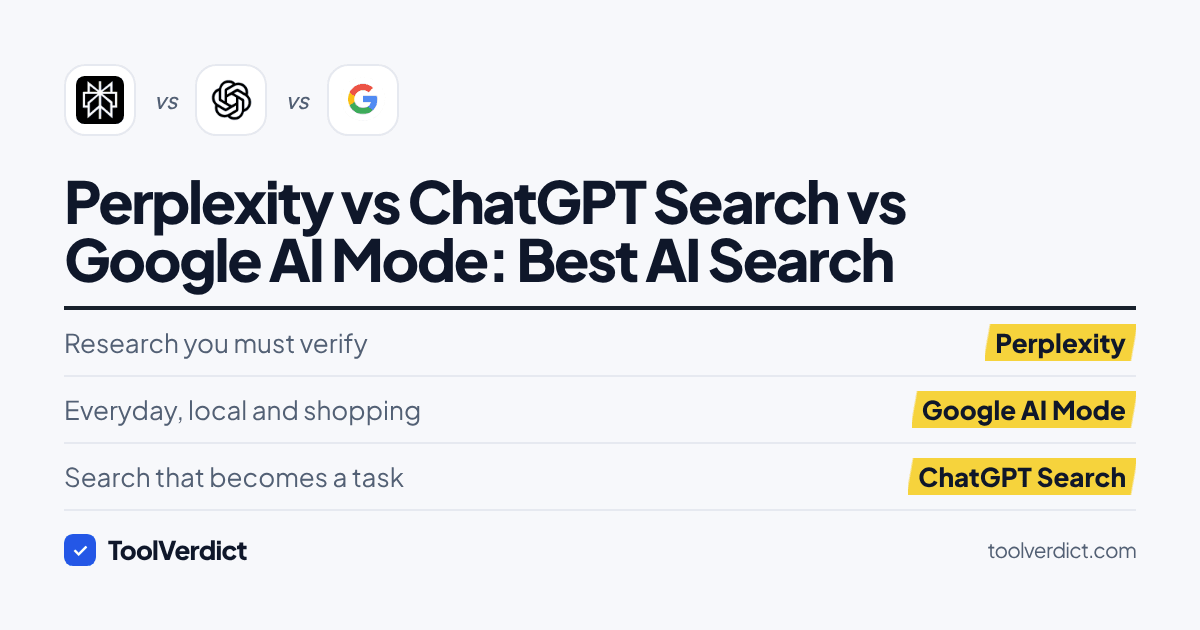
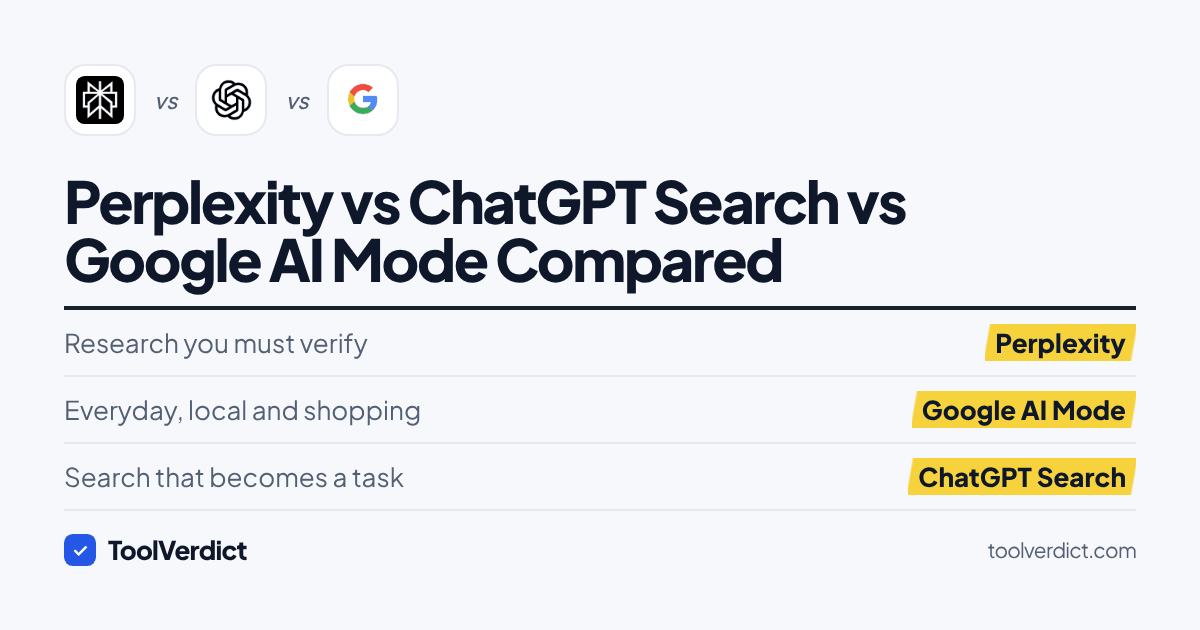
Fix issues from a Claude SEO audit run
Ran the claude-seo plugin's page_checks, content_quality, agentic_check
and sitemap_discovery scripts against the built site:
- Titles: add " | ToolVerdict" only when the result fits in 60 chars;
  shorten the Perplexity article title (slug unchanged)
- Homepage title now matches its content ("Compare AI tools and pick the
  right one")
- Above-the-fold logos load eagerly (article contenders, tool header,
  homepage verdict, first category tiles)
- /compare/ featured image is no longer an empty link; it has real alt text
- /categories/ gains an intro and per-category tool names (was thin)

Results: 0 page-check findings on all checked pages; content quality
82-85/100 with 0 filler and 0 AI-pattern hits; agent-readiness P0/P1
checks pass (server-rendered, robots AI groups, llms.txt, 404s).

Claude-Session: https://claude.ai/code/session_01DtCVcXPmJFi3csWvYHjeEu

Changed region(s): [[0.4008, 0.3619, 0.7708, 0.4524]]

diff --git a/src/content/articles/perplexity-vs-chatgpt-search-vs-google-ai-mode.md b/src/content/articles/perplexity-vs-chatgpt-search-vs-google-ai-mode.md
@@ -1,5 +1,5 @@
 ---
-title: "Perplexity vs ChatGPT Search vs Google AI Mode: Best AI Search"
+title: "Perplexity vs ChatGPT Search vs Google AI Mode Compared"
 description: "Perplexity, ChatGPT Search and Google AI Mode all answer with sources. Which AI search engine is best cited, most useful and best for everyday use?"
 pubDate: 2026-11-26
 updatedDate: 2026-11-26
